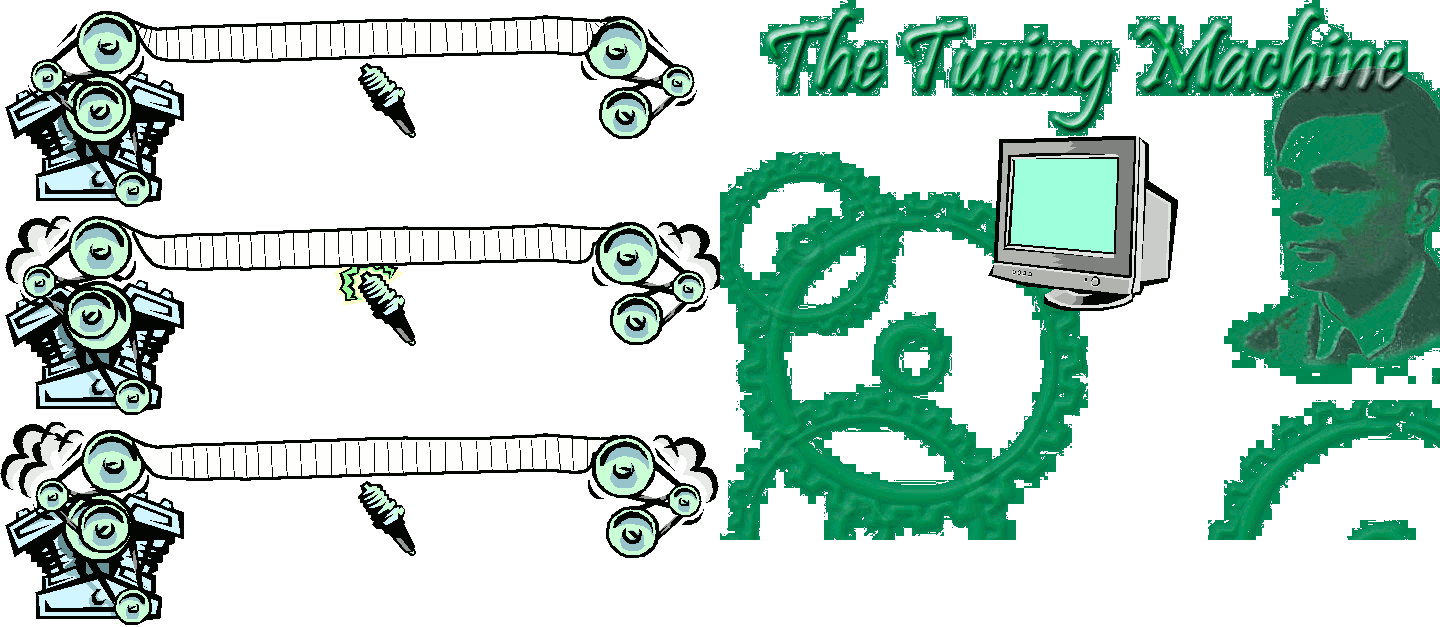
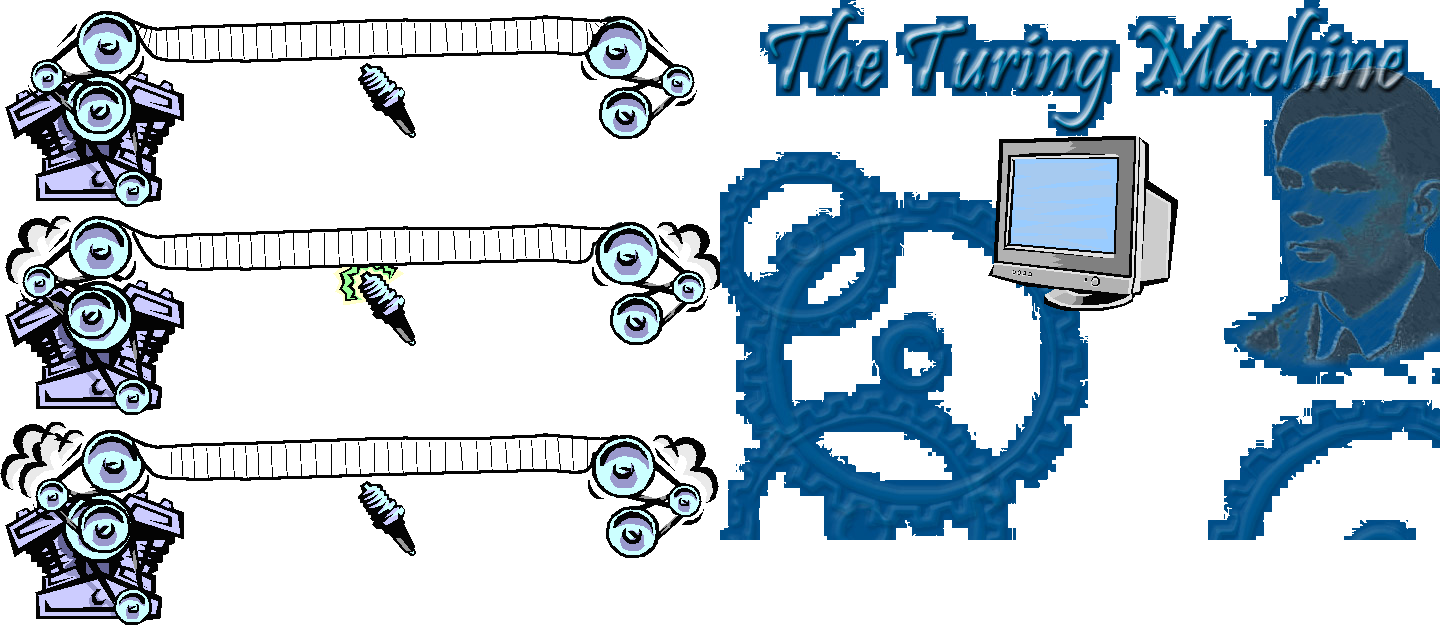
Change style color to blue

diff --git a/lib/style.css b/lib/style.css
@@ -15,7 +15,7 @@ html, body {
 
 body {
 	font: 15px arial,sans-serif;
-	background: #008b54;
+	background-color: #004f88;
 }
 
 body.displayresults {
@@ -34,7 +34,6 @@ h1 {
 
 #main {
 	position: relative;
-	background-color: #008b54;
 	background-position: -720px 0px;
 	width: 1024px;
 	height: 574px;
@@ -52,7 +51,7 @@ h1 {
 }
 
 body.displayresults #main {
-	border: 10px solid #008b54;
+	border: 10px solid #004f88;
 	border-radius: 10px;
 }
 
